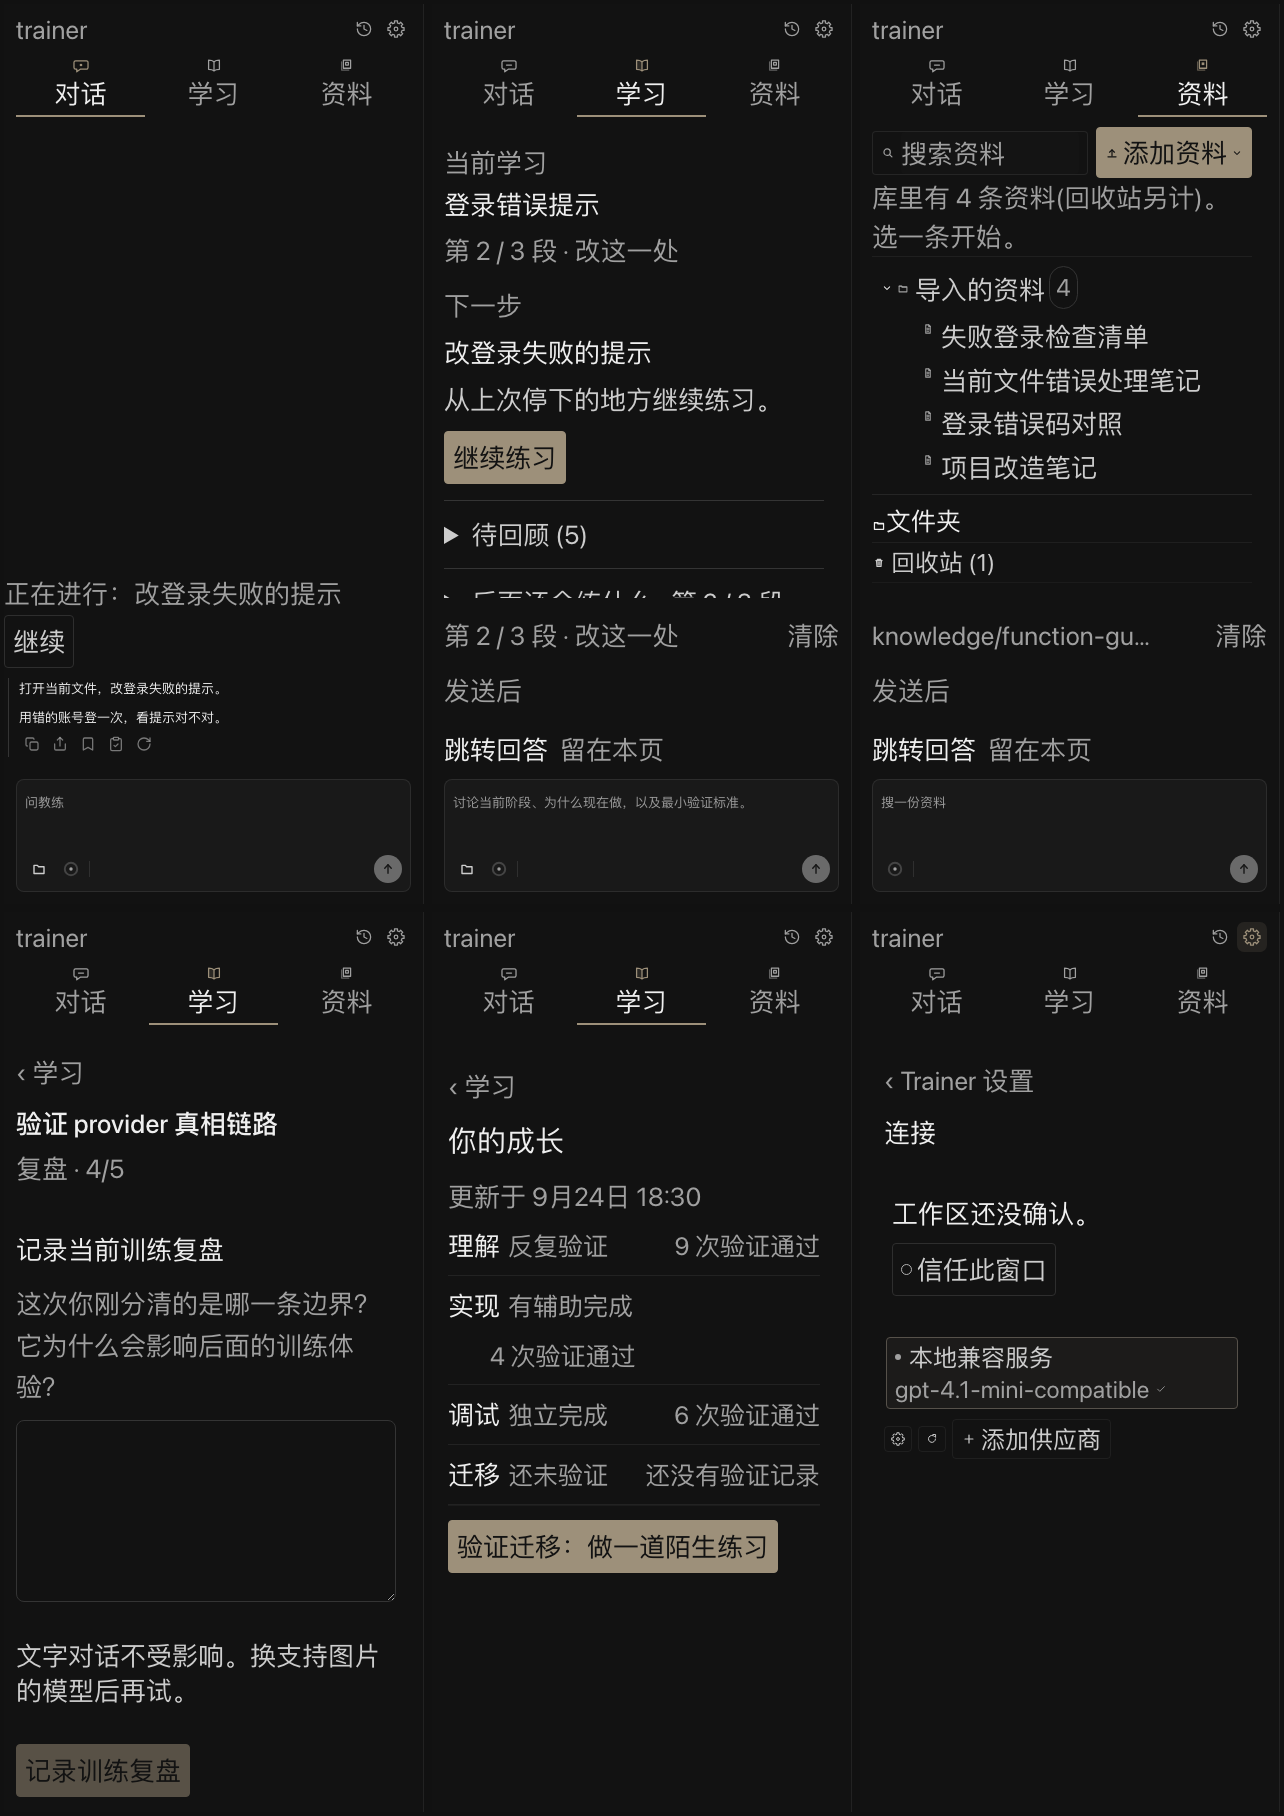
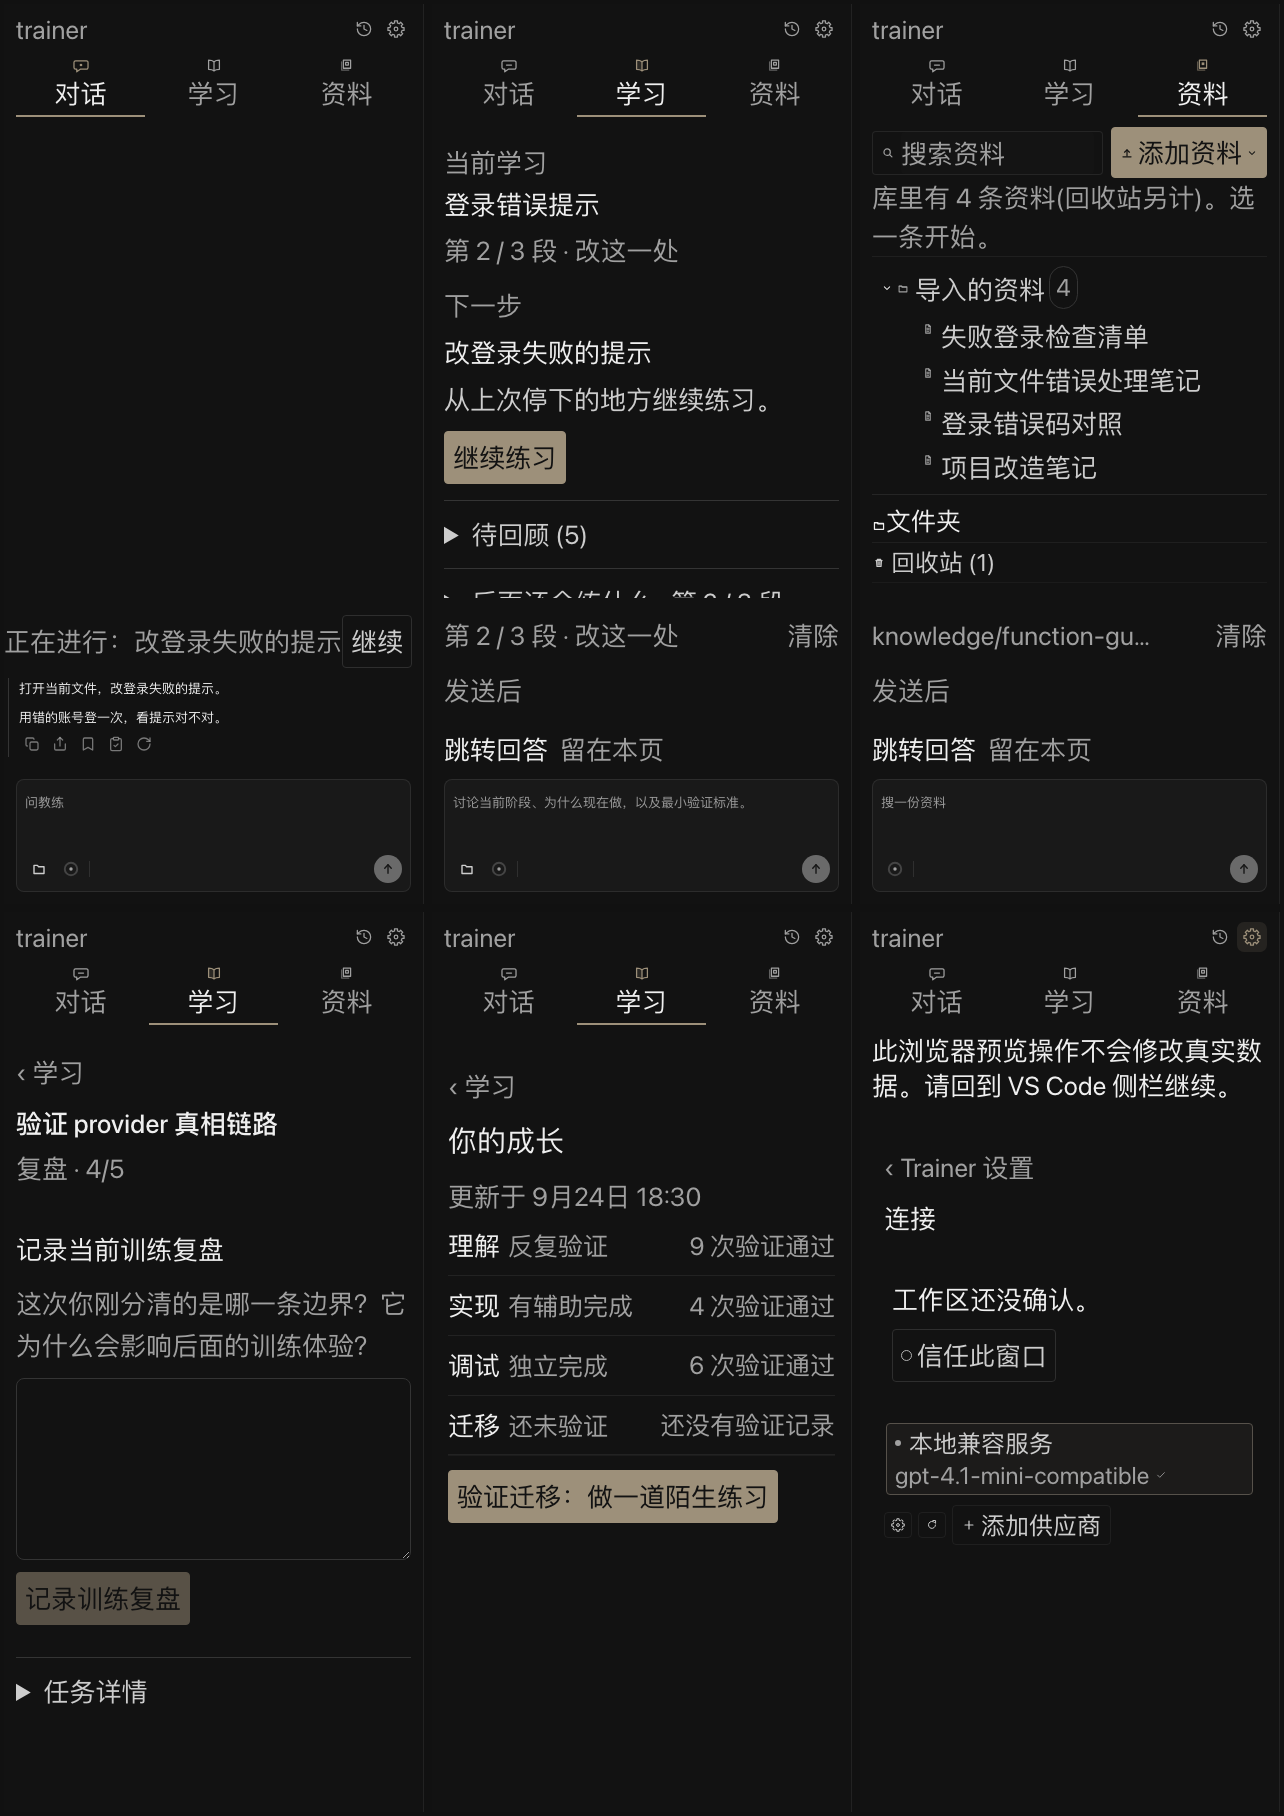
fix(settings): localized Preferences summary instead of raw locale/theme codes (T-0025); refresh a11y contact sheets

diff --git a/extension/webview/src/components/settings/CoachSettingsView.tsx b/extension/webview/src/components/settings/CoachSettingsView.tsx
@@ -5606,7 +5606,14 @@ function CoachSettingsViewSheet({
               ? [provider.model, providerRequirementNote].filter(Boolean).join(" · ")
               : id === "workspace" ? remoteWorkspaceName || resourceSandbox?.effectivePath || trainerWorkspace?.rootPath
               : id === "teaching" ? teachingStyleItems.find((item) => item.value === teachingStyle)?.label ?? copy.auto
-              : `${language} · ${themePreference}` };
+              : [
+                  LANGUAGE_LABELS[language],
+                  themePreference === "dark"
+                    ? copy.dark
+                    : themePreference === "light"
+                      ? copy.light
+                      : copy.system,
+                ].join(" · ") };
           })}
           onSelect={openSettingsCategorySection}
         />
